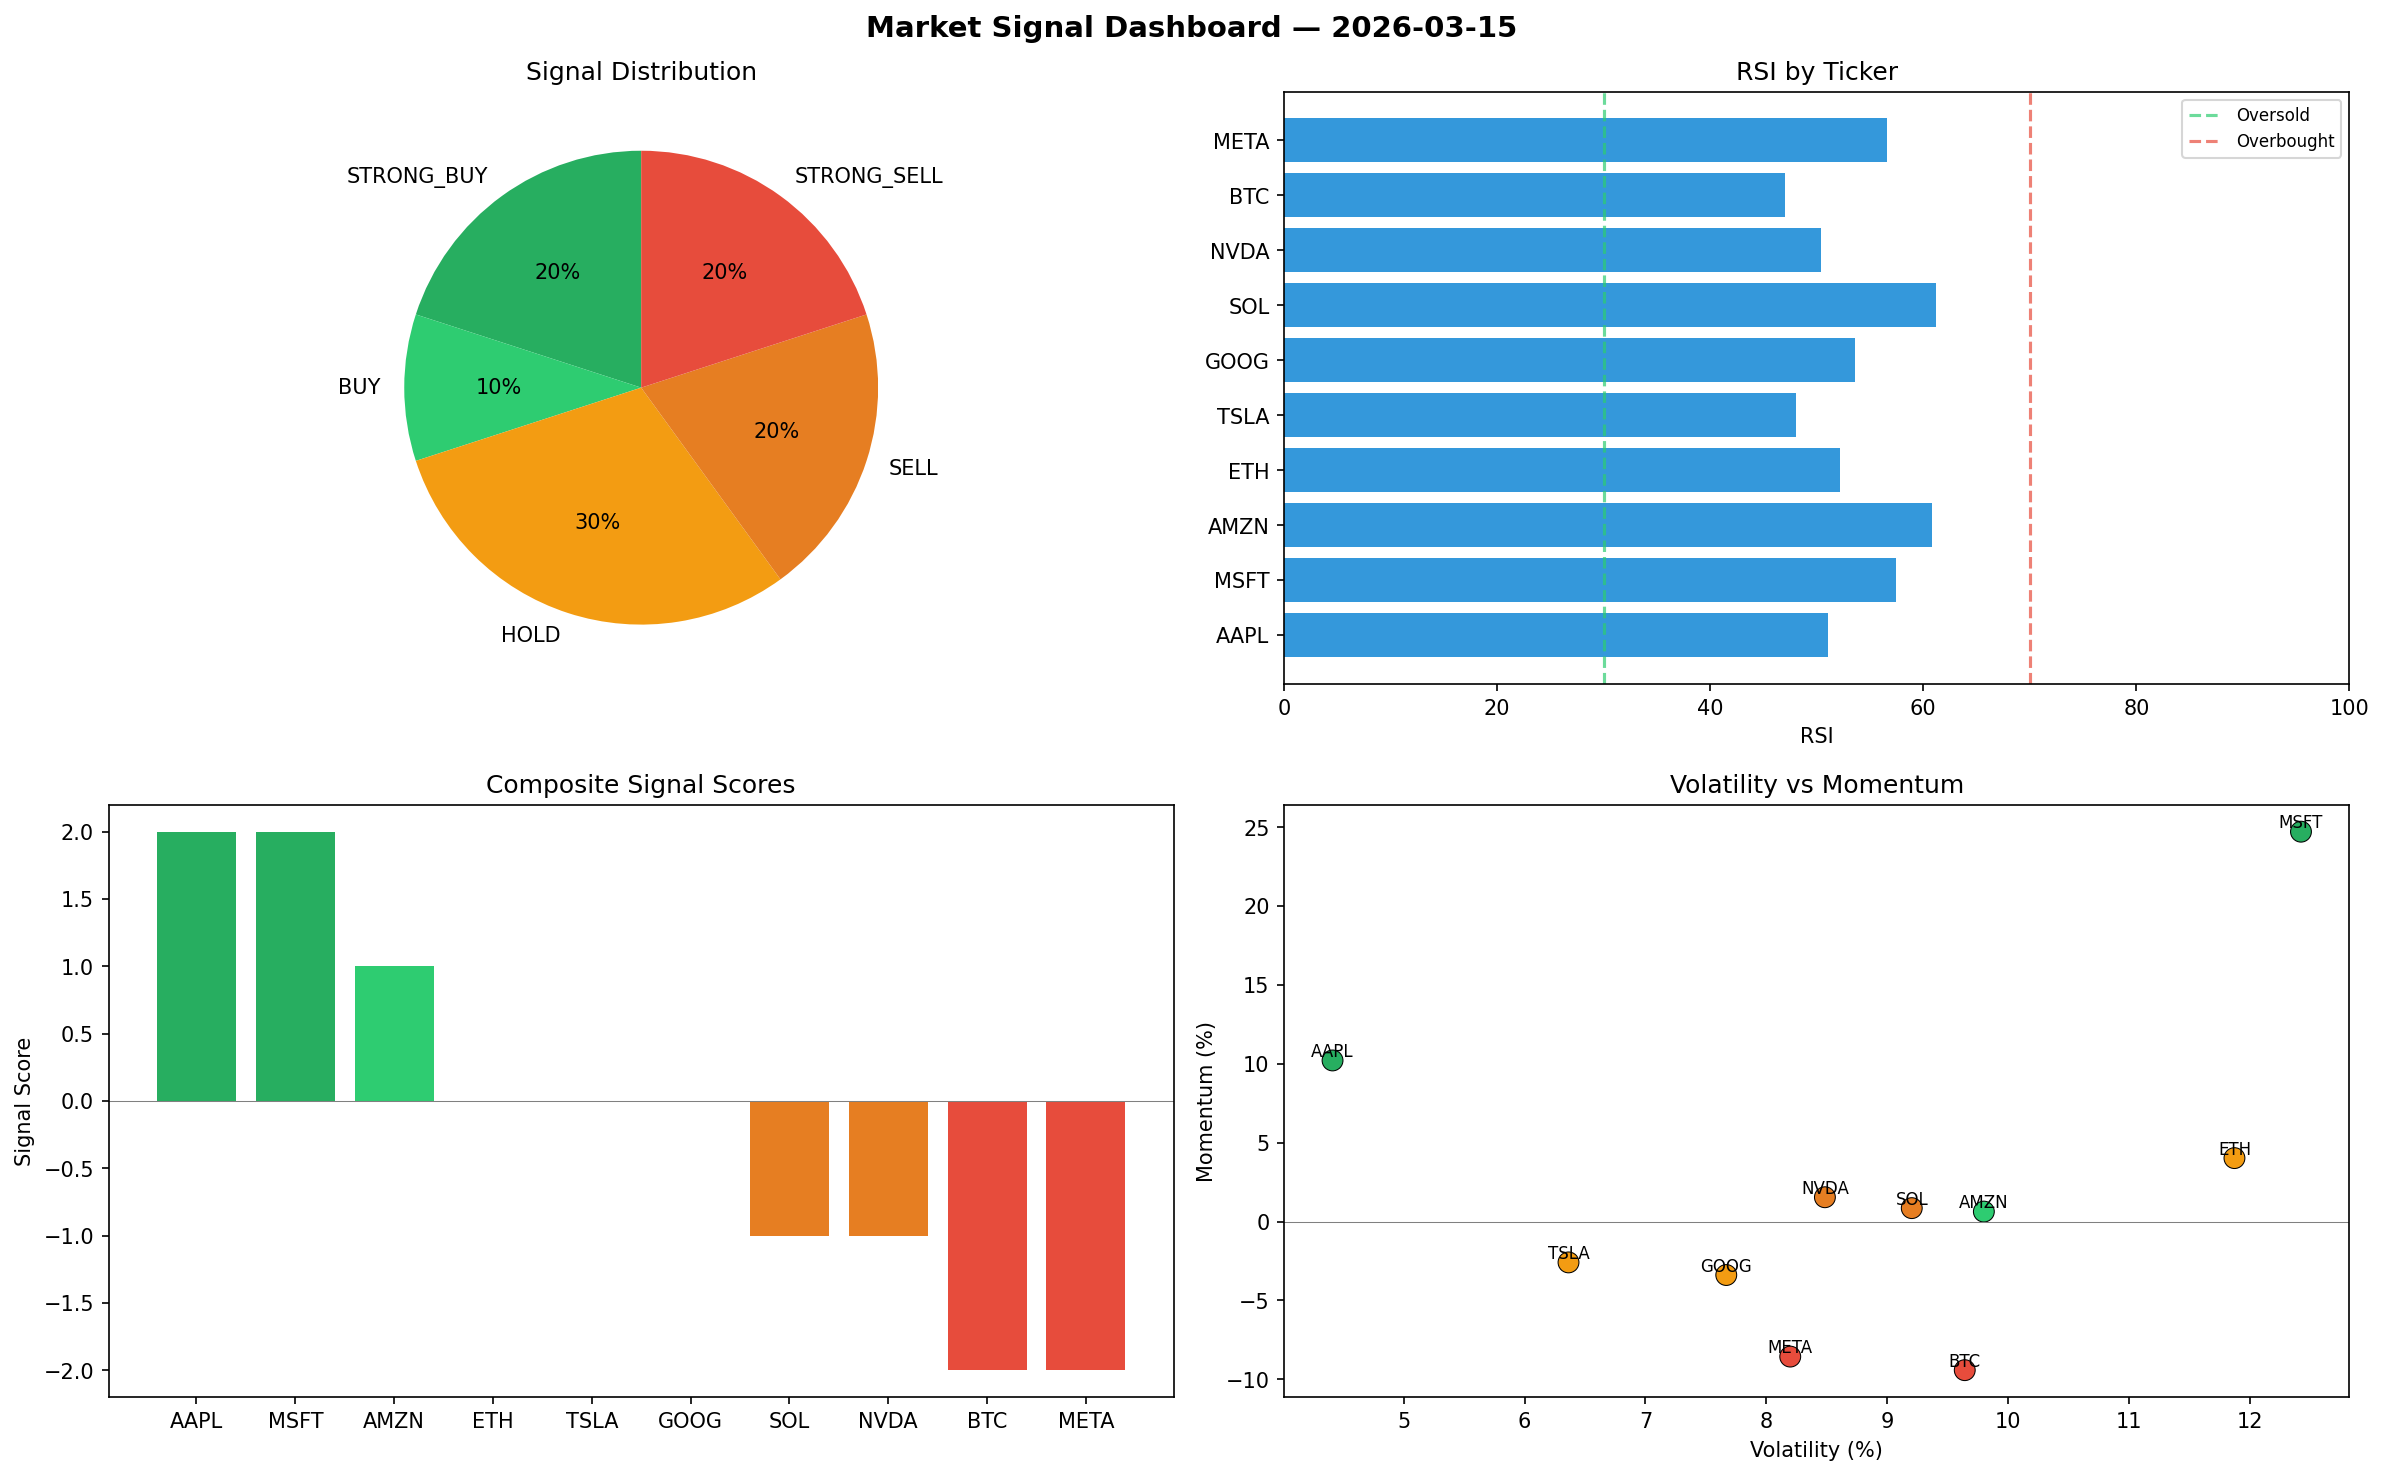
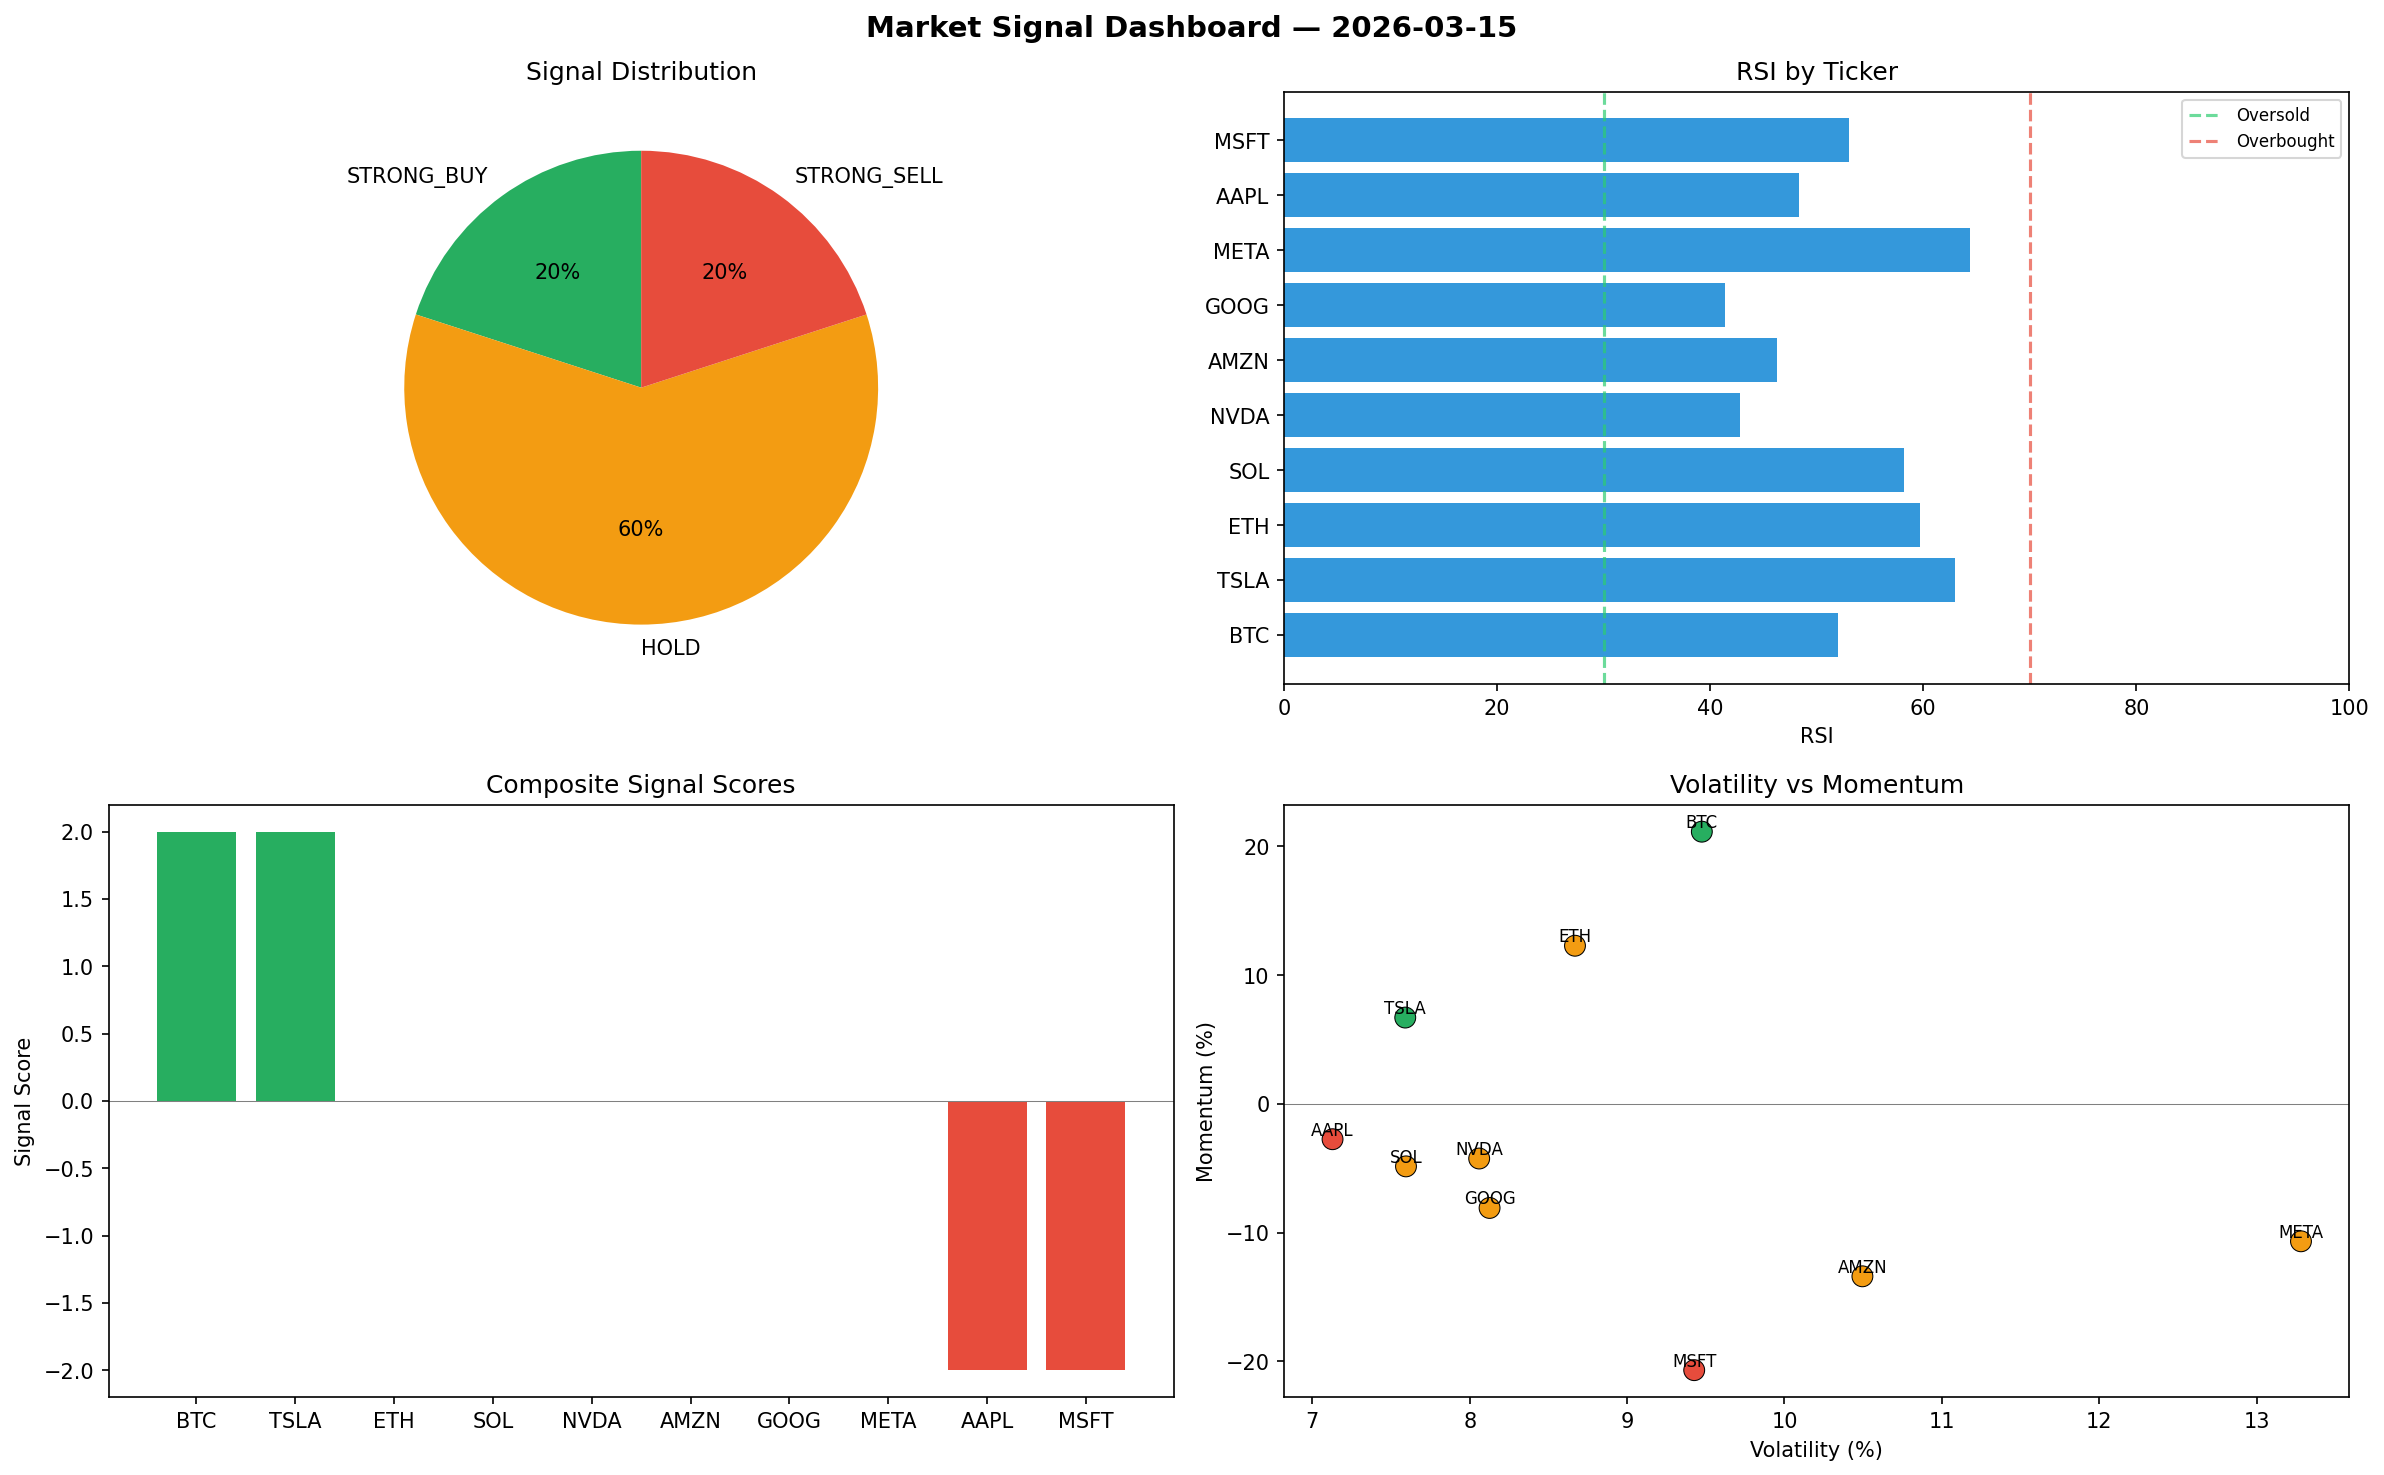
automated-bots: market signals 2026-03-15T08:59

diff --git a/logs/2026-03-15.md b/logs/2026-03-15.md
@@ -1,6 +1,6 @@
 # Market Signal Report — 2026-03-15
 
-**Run ID:** `9ee7e3870f` | **Buy:** 3 | **Sell:** 4 | **Hold:** 3
+**Run ID:** `fb037501ad` | **Buy:** 2 | **Sell:** 2 | **Hold:** 6
 
 ![Dashboard](2026-03-15_dashboard.png)
 
@@ -8,28 +8,28 @@
 
 | Ticker | Price | Signal | Score | RSI | Momentum | Confidence |
 |--------|-------|--------|-------|-----|----------|------------|
-| AAPL | $3135.64 | **STRONG_BUY** | 2 | 51.02 | 0.1021 | 0.5 |
-| MSFT | $1499.29 | **STRONG_BUY** | 2 | 57.42 | 0.2471 | 0.5 |
-| AMZN | $2337.24 | **BUY** | 1 | 60.84 | 0.0063 | 0.25 |
-| ETH | $3585.88 | **HOLD** | 0 | 52.16 | 0.0402 | 0.0 |
-| TSLA | $3821.01 | **HOLD** | 0 | 48.02 | -0.0259 | 0.0 |
-| GOOG | $356.55 | **HOLD** | 0 | 53.56 | -0.0339 | 0.0 |
-| SOL | $2330.8 | **SELL** | -1 | 61.2 | 0.0085 | 0.25 |
-| NVDA | $2221.51 | **SELL** | -1 | 50.41 | 0.0154 | 0.25 |
-| BTC | $4559.35 | **STRONG_SELL** | -2 | 47.05 | -0.0942 | 0.5 |
-| META | $4706.32 | **STRONG_SELL** | -2 | 56.56 | -0.0856 | 0.5 |
+| BTC | $2771.98 | **STRONG_BUY** | 2 | 51.97 | 0.2115 | 0.5 |
+| TSLA | $1121.38 | **STRONG_BUY** | 2 | 63.0 | 0.0671 | 0.5 |
+| ETH | $555.59 | **HOLD** | 0 | 59.66 | 0.1229 | 0.0 |
+| SOL | $1988.18 | **HOLD** | 0 | 58.17 | -0.0485 | 0.0 |
+| NVDA | $1049.53 | **HOLD** | 0 | 42.77 | -0.0424 | 0.0 |
+| AMZN | $2992.5 | **HOLD** | 0 | 46.27 | -0.1339 | 0.0 |
+| GOOG | $2389.61 | **HOLD** | 0 | 41.4 | -0.0808 | 0.0 |
+| META | $2184.2 | **HOLD** | 0 | 64.35 | -0.1067 | 0.0 |
+| AAPL | $2186.48 | **STRONG_SELL** | -2 | 48.29 | -0.0274 | 0.5 |
+| MSFT | $4041.14 | **STRONG_SELL** | -2 | 53.06 | -0.2068 | 0.5 |
 
 ## Delta vs Yesterday
 
 | Ticker | Today | Yesterday | Price Change | Signal Changed |
 |--------|-------|-----------|-------------|----------------|
-| AAPL | STRONG_BUY | STRONG_SELL | 📉 -21.55% | ⚠ YES |
-| MSFT | STRONG_BUY | HOLD | 📉 -22.69% | ⚠ YES |
-| AMZN | BUY | SELL | 📉 -53.11% | ⚠ YES |
-| ETH | HOLD | SELL | 📈 51.81% | ⚠ YES |
-| TSLA | HOLD | BUY | 📉 -2.9% | ⚠ YES |
-| GOOG | HOLD | STRONG_SELL | 📉 -63.63% | ⚠ YES |
-| SOL | SELL | HOLD | 📈 9.52% | ⚠ YES |
-| NVDA | SELL | STRONG_SELL | 📉 -22.23% | ⚠ YES |
-| BTC | STRONG_SELL | SELL | 📈 176.44% | ⚠ YES |
-| META | STRONG_SELL | HOLD | 📈 233.1% | ⚠ YES |
+| BTC | STRONG_BUY | SELL | 📈 68.07% | ⚠ YES |
+| TSLA | STRONG_BUY | BUY | 📉 -71.5% | ⚠ YES |
+| ETH | HOLD | SELL | 📉 -76.48% | ⚠ YES |
+| SOL | HOLD | HOLD | 📉 -6.58% | — |
+| NVDA | HOLD | STRONG_SELL | 📉 -63.26% | ⚠ YES |
+| AMZN | HOLD | SELL | 📉 -39.97% | ⚠ YES |
+| GOOG | HOLD | STRONG_SELL | 📈 143.75% | ⚠ YES |
+| META | HOLD | HOLD | 📈 54.59% | — |
+| AAPL | STRONG_SELL | STRONG_SELL | 📉 -45.3% | — |
+| MSFT | STRONG_SELL | HOLD | 📈 108.37% | ⚠ YES |
